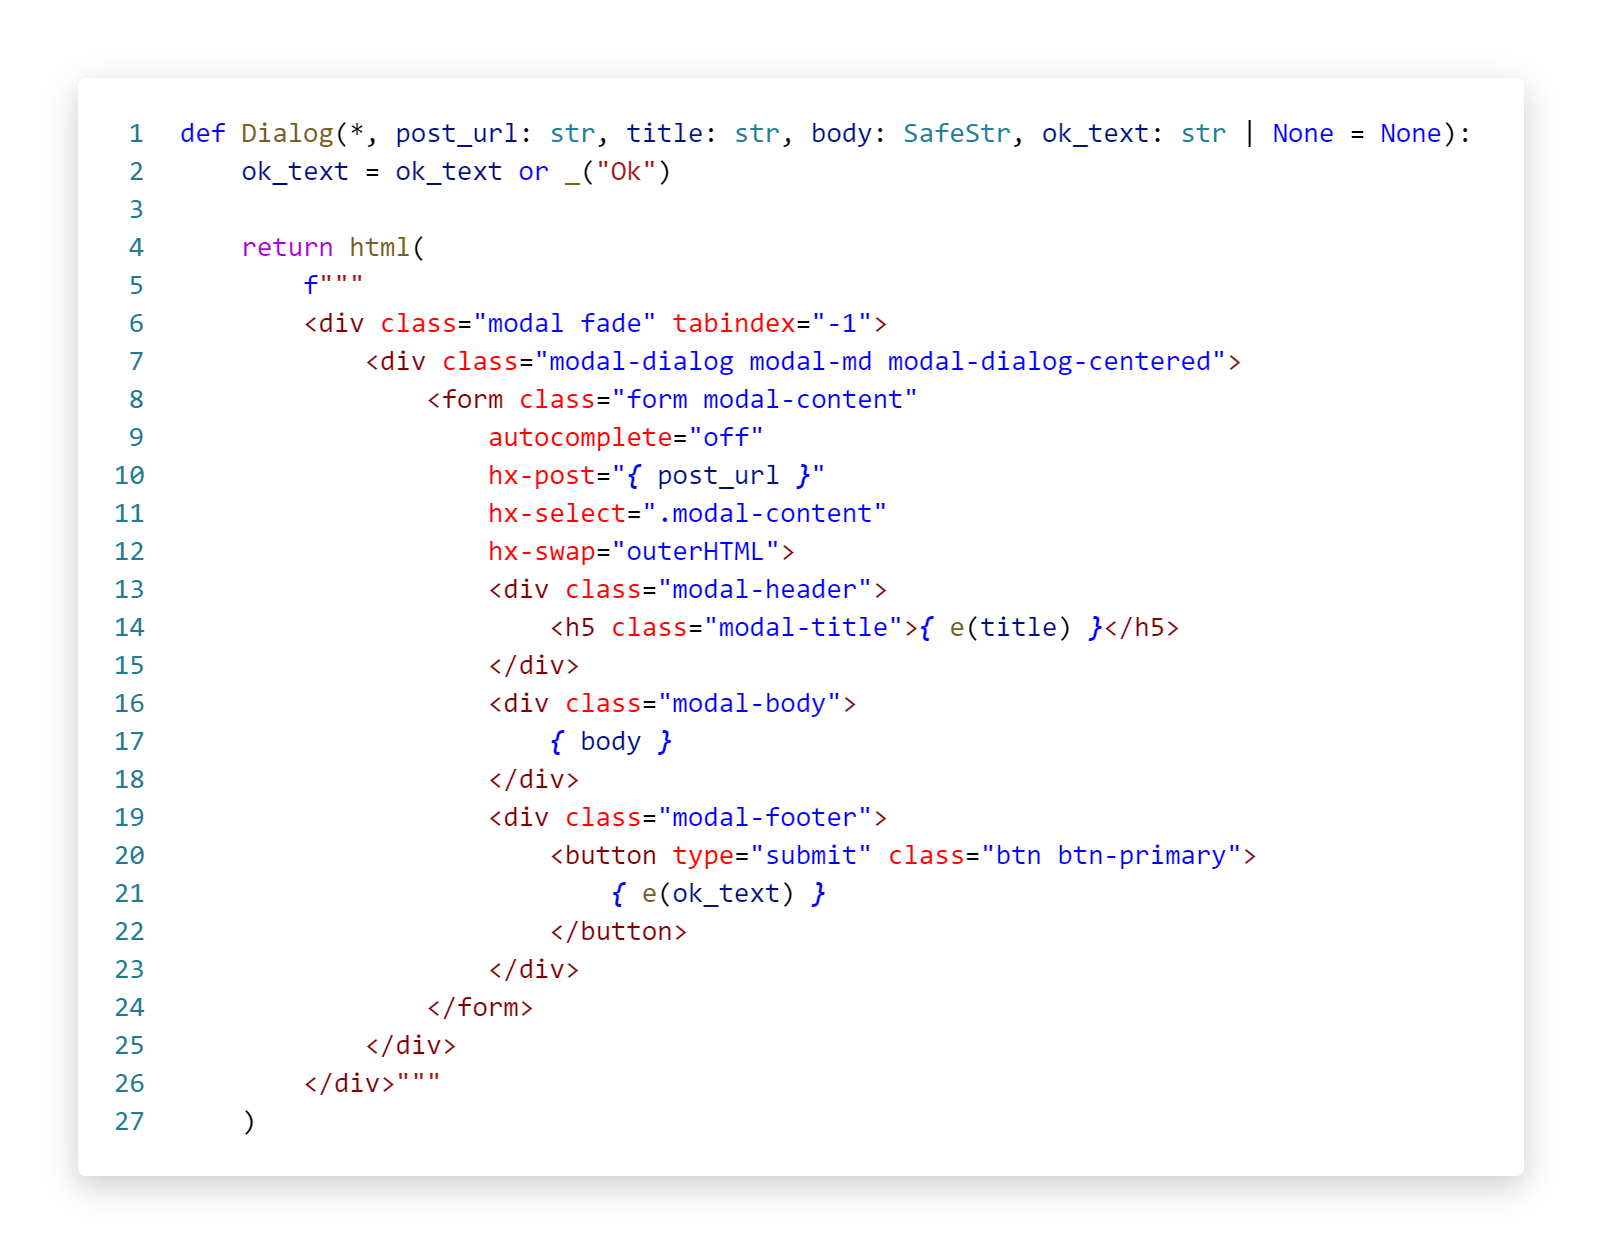
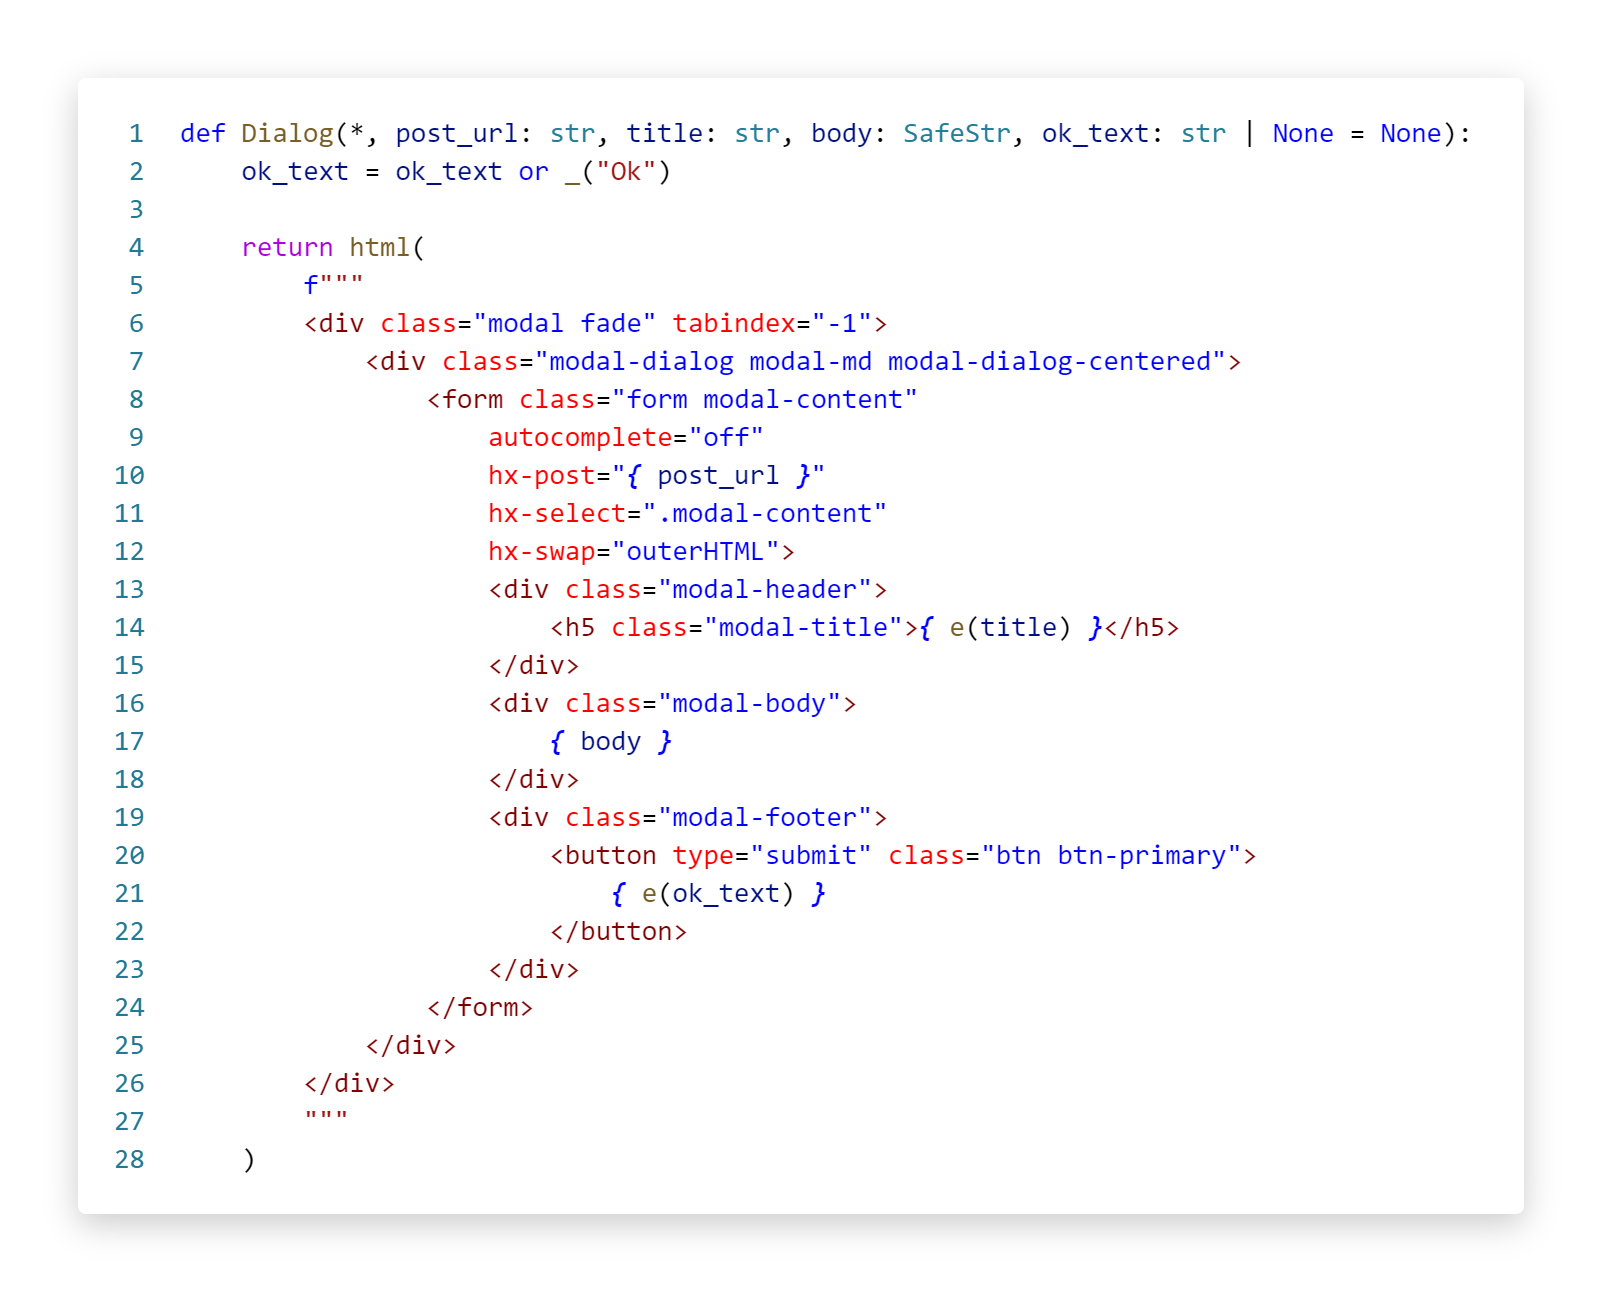
cosmetic

diff --git a/sample.py b/sample.py
@@ -42,5 +42,6 @@ def Dialog(*, post_url: str, title: str, body: SafeStr, ok_text: str | None = No
                     </div>
                 </form>
             </div>
-        </div>"""
+        </div>
+        """
     )
